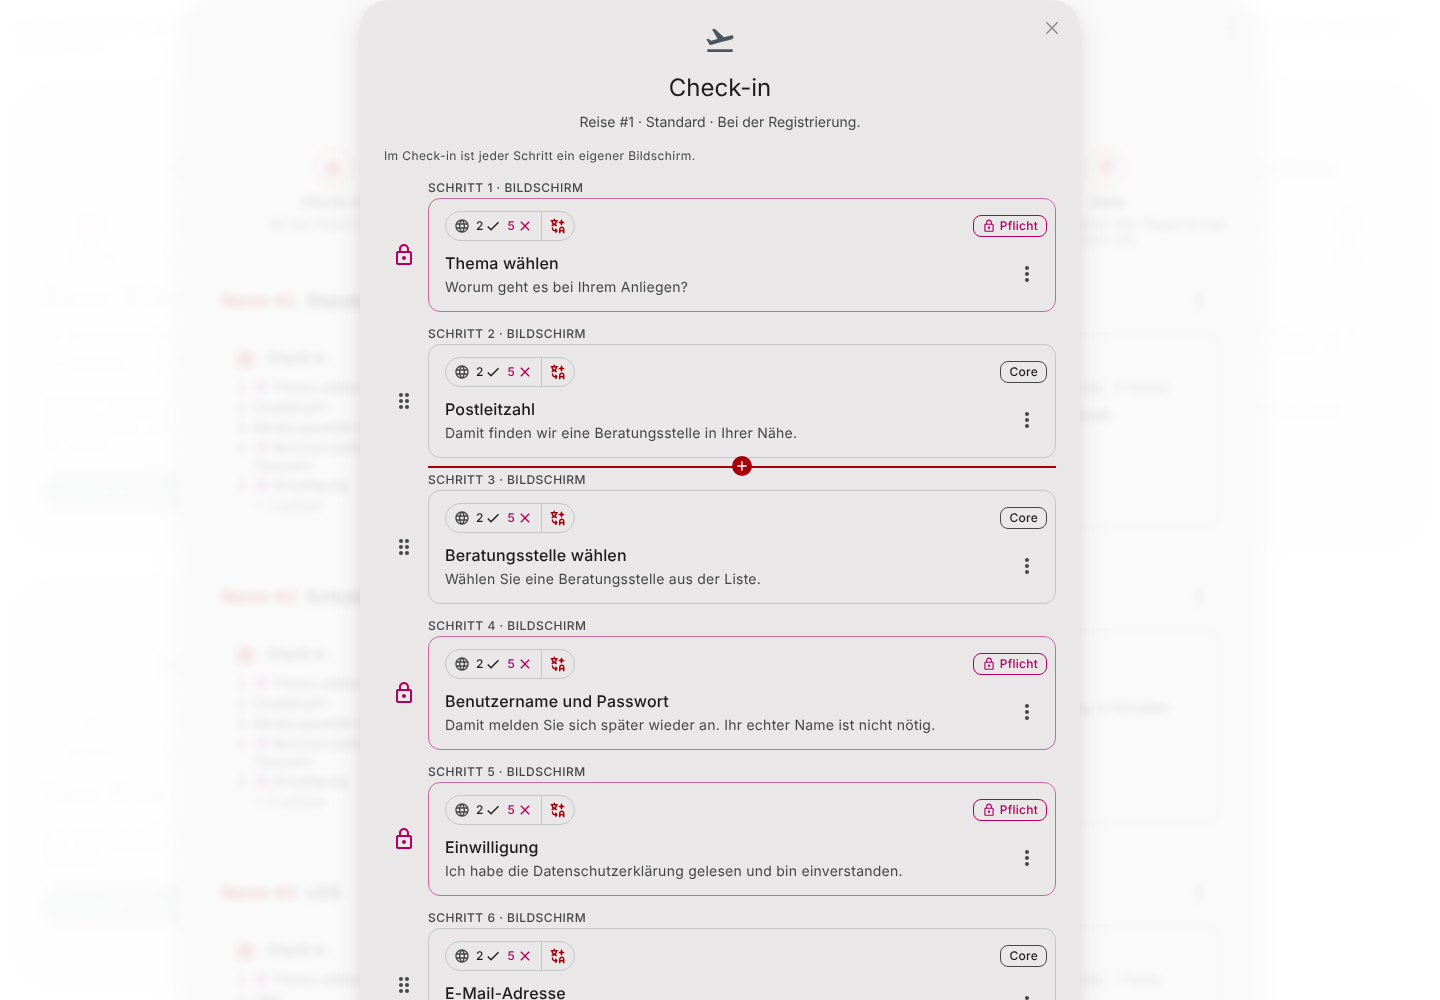
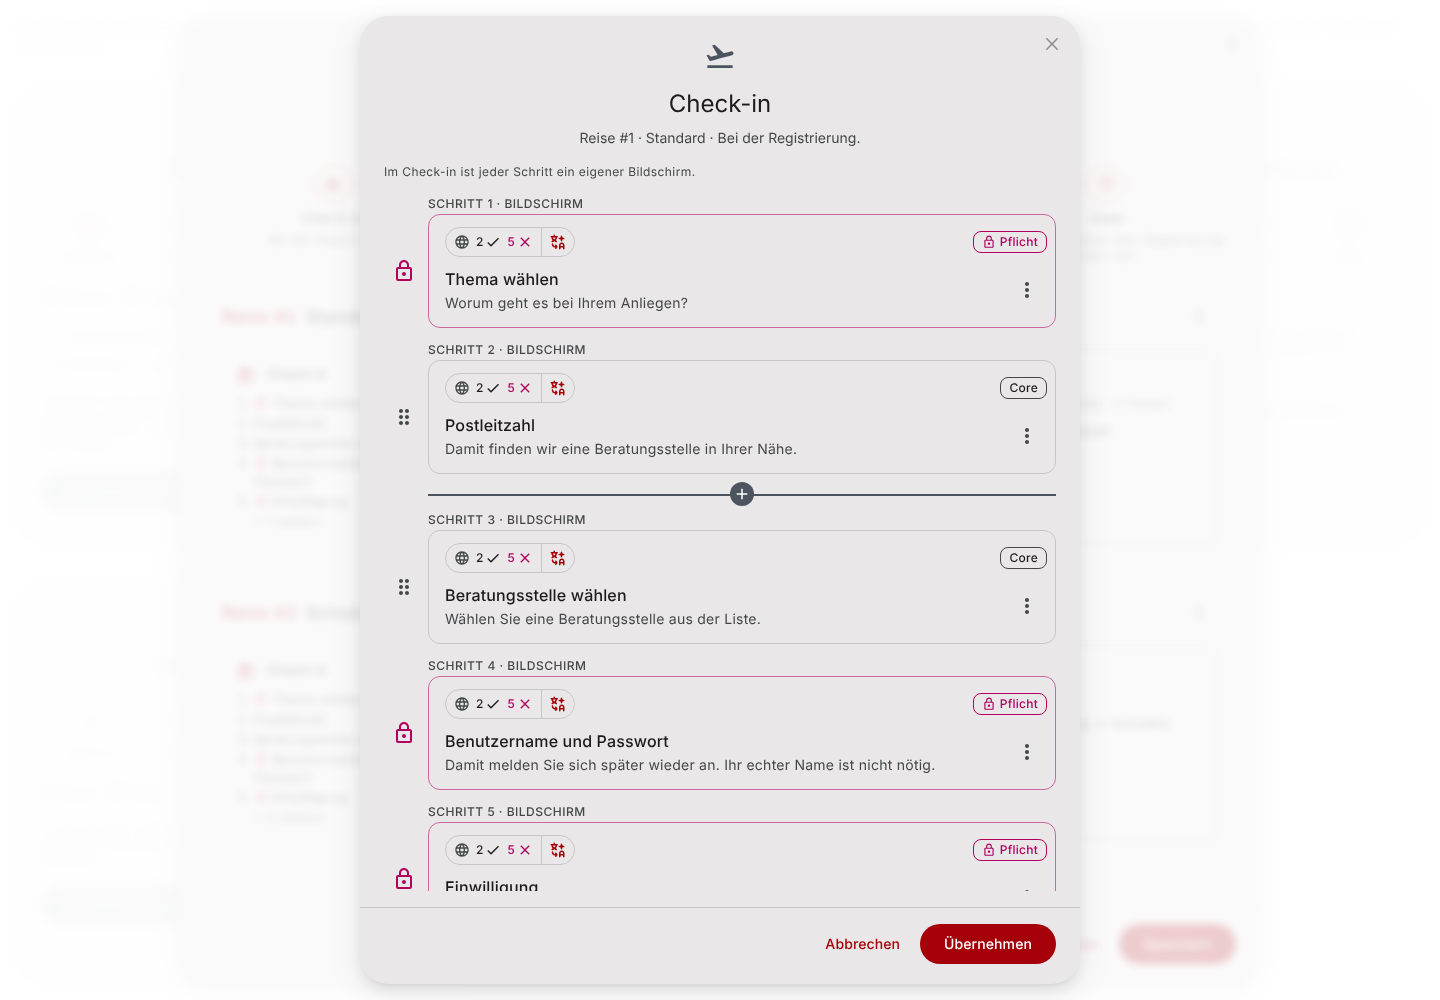
feat(journeys): dialogs keep header and buttons on small screens; softer plus line
- All six journey dialogs use the Modal's scrollable body: header and
  footer stay, the content scrolls. Checked at 1280x720 and 390x700.
- The plus line between steps is grey (secondary), opens the gap on
  hover or focus so the steps move apart, stays open while its add-step
  dialog is open, and the dialog zooms in from the click. No motion with
  prefers-reduced-motion.
- Screenshots 47 (plus line) and 48 (small screens) added.

Claude-Session: https://claude.ai/code/session_01MYr5h7X8aobv779j851AGZ

diff --git a/src/components/Journeys/styles.module.scss b/src/components/Journeys/styles.module.scss
@@ -473,7 +473,7 @@ ul.tileList {
     flex-direction: column;
     padding: 0;
     margin: 0;
-    gap: mui.$mui-unit * 1.5;
+    gap: 0;
     list-style: none;
 }
 
@@ -1533,35 +1533,58 @@ p.aboutTitle {
     }
 }
 
-/* ---- the plus line between steps: hover or focus shows where a step may go ---- */
+/* ---- the plus line between steps ----
+ * Collapsed it is the 12 px gap between two steps. Hover or focus opens it to 36 px, so the steps
+ * move apart, and a grey line with a plus fades in. While its add-step dialog is open it stays
+ * open. Secondary colour, not the primary red: it is an offer, not an alert. */
+
+$secondary: var(--m3-secondary, #5d5f5f);
+
 .insertLine {
     position: relative;
     display: flex;
     width: calc(100% - 44px);
-    height: 20px;
+    height: 12px;
     align-items: center;
     justify-content: center;
     padding: 0;
     border: 0;
-    margin: -4px 0 -16px 44px;
+    margin: 0 0 0 44px;
     background: none;
     cursor: pointer;
     grid-column: 1 / -1;
-    opacity: 0;
-    transition: opacity 120ms ease;
+    transition: height 180ms cubic-bezier(0.2, 0, 0, 1);
 
     &:before {
         position: absolute;
         top: 50%;
         right: 0;
         left: 0;
-        border-top: 2px solid $primary;
+        border-top: 2px solid $secondary;
         content: '';
+        opacity: 0;
+        transform: scaleX(0.6);
+        transition: opacity 140ms ease, transform 180ms cubic-bezier(0.2, 0, 0, 1);
     }
 
     &:hover,
-    &:focus-visible {
-        opacity: 1;
+    &:focus-visible,
+    &.insertLineActive {
+        height: 36px;
+
+        &:before {
+            opacity: 1;
+            transform: scaleX(1);
+        }
+
+        .insertPlus {
+            opacity: 1;
+            transform: scale(1);
+        }
+    }
+
+    &:active .insertPlus {
+        transform: scale(0.88);
     }
 
     &:focus-visible {
@@ -1569,25 +1592,38 @@ p.aboutTitle {
     }
 }
 
+.insertLineStart {
+    margin-bottom: 0;
+}
+
 .insertPlus {
     position: relative;
     display: inline-flex;
-    width: 20px;
-    height: 20px;
+    width: 24px;
+    height: 24px;
     align-items: center;
     justify-content: center;
-    border-radius: 10px;
-    background: $primary;
-    color: var(--m3-on-primary, #ffffff);
+    border-radius: 12px;
+    background: $secondary;
+    color: var(--m3-on-secondary, #ffffff);
+    opacity: 0;
+    transform: scale(0.6);
+    transition: opacity 140ms ease, transform 180ms cubic-bezier(0.2, 0, 0, 1);
 
     svg {
-        width: 16px;
-        height: 16px;
+        width: 18px;
+        height: 18px;
+    }
+
+    .insertLineActive & {
+        transform: rotate(90deg) scale(1);
     }
 }
 
 @media (prefers-reduced-motion: reduce) {
-    .insertLine {
+    .insertLine,
+    .insertLine:before,
+    .insertPlus {
         transition: none;
     }
 }

diff --git a/src/components/Journeys/PhaseDialog.tsx b/src/components/Journeys/PhaseDialog.tsx
@@ -1,5 +1,6 @@
 import { useState, type DragEvent } from 'react';
 import { useTranslation } from 'react-i18next';
+import classNames from 'classnames';
 import Add from '@mui/icons-material/Add';
 import { Modal } from '../Modal';
 import { M3Button } from '../M3Button';
@@ -147,6 +148,7 @@ export const PhaseDialog = ({
                 }
                 onClose={onClose}
                 wrapperTestId={`journey-phase-${phase}`}
+                scrollableBody
             >
                 <div className={styles.dialogBody}>
                     <p className={styles.srOnly} role="status" aria-live="polite">
@@ -186,7 +188,10 @@ export const PhaseDialog = ({
                             {firstFreeIndex(steps) === 0 && (
                                 <button
                                     type="button"
-                                    className={styles.insertLine}
+                                    className={classNames(styles.insertLine, styles.insertLineStart, {
+                                        [styles.insertLineActive]: addingAfter === START_OF_PHASE,
+                                    })}
+                                    aria-expanded={addingAfter === START_OF_PHASE}
                                     aria-label={t('journeys.insert.start')}
                                     title={t('journeys.insert.start')}
                                     onClick={() => setAddingAfter(START_OF_PHASE)}
@@ -217,6 +222,7 @@ export const PhaseDialog = ({
                                                 : setDraft((current) => removeStep(current, phase, step.id))
                                         }
                                         onInsertBelow={() => setAddingAfter(step.id)}
+                                        insertActive={addingAfter === step.id}
                                         topicPreselect={
                                             step.core === 'topic' && draft.conversationType === 'AGENCY_COUNSELLING'
                                                 ? {

diff --git a/src/components/Journeys/StepCard.tsx b/src/components/Journeys/StepCard.tsx
@@ -34,6 +34,8 @@ export interface StepCardProps {
     onRemove: () => void;
     /** The plus line under the card: a new step right below this one. */
     onInsertBelow?: () => void;
+    /** Its add-step dialog is open: the plus line stays open. */
+    insertActive?: boolean;
     /** "Choose a topic" only: preselect the topic (journeys reached by one-topic links only). */
     topicPreselect?: { on: boolean; allowed: boolean; onToggle: (on: boolean) => void };
     onTranslate?: () => void;
@@ -67,6 +69,7 @@ export const StepCard = ({
     onMove,
     onRemove,
     onInsertBelow,
+    insertActive = false,
     topicPreselect,
     onTranslate,
     onMarkChecked,
@@ -219,7 +222,8 @@ export const StepCard = ({
             {onInsertBelow && (
                 <button
                     type="button"
-                    className={styles.insertLine}
+                    className={classNames(styles.insertLine, { [styles.insertLineActive]: insertActive })}
+                    aria-expanded={insertActive}
                     aria-label={t('journeys.insert.after', { name: title })}
                     title={t('journeys.insert.after', { name: title })}
                     onClick={onInsertBelow}

diff --git a/src/components/Journeys/DestinationsDialog.tsx b/src/components/Journeys/DestinationsDialog.tsx
@@ -109,6 +109,7 @@ export const DestinationsDialog = ({ journeys, journeyId, topics, onApply, onClo
             }
             onClose={onClose}
             wrapperTestId="journey-destinations"
+            scrollableBody
         >
             <div className={styles.dialogBody}>
                 <section className={styles.section} aria-labelledby="journey-routes">

diff --git a/src/components/Journeys/AddStepDialog.tsx b/src/components/Journeys/AddStepDialog.tsx
@@ -79,6 +79,7 @@ export const AddStepDialog = ({ journey, phase, blocked = [], onAdd, onClose }: 
             }
             onClose={onClose}
             wrapperTestId="journey-add-step"
+            scrollableBody
         >
             <div className={styles.picker}>
                 <ul className={styles.pickerColumn} aria-label={t('journeys.add.kinds')}>

diff --git a/src/components/ConversationTypeAppearance/ConversationTypeSettingsDialog.tsx b/src/components/ConversationTypeAppearance/ConversationTypeSettingsDialog.tsx
@@ -100,6 +100,7 @@ export const ConversationTypeSettingsDialog = ({
             }
             onClose={onClose}
             wrapperTestId="type-appearance-dialog"
+            scrollableBody
         >
             <div className={styles.body}>
                 <section className={styles.section} aria-labelledby="type-appearance-name">

diff --git a/src/components/Journeys/JourneysDialog.tsx b/src/components/Journeys/JourneysDialog.tsx
@@ -118,6 +118,7 @@ export const JourneysDialog = ({
                 }
                 onClose={onClose}
                 wrapperTestId="journeys-dialog"
+                scrollableBody
             >
                 <div className={styles.dialogBody}>
                     <FlightPath available={phasesOf(type)} captions />

diff --git a/src/components/Journeys/StepDialog.tsx b/src/components/Journeys/StepDialog.tsx
@@ -166,6 +166,7 @@ export const StepDialog = ({
             }
             onClose={onClose}
             wrapperTestId="journey-step-dialog"
+            scrollableBody
         >
             <div className={styles.dialogBody}>
                 <BlockProfileCard
